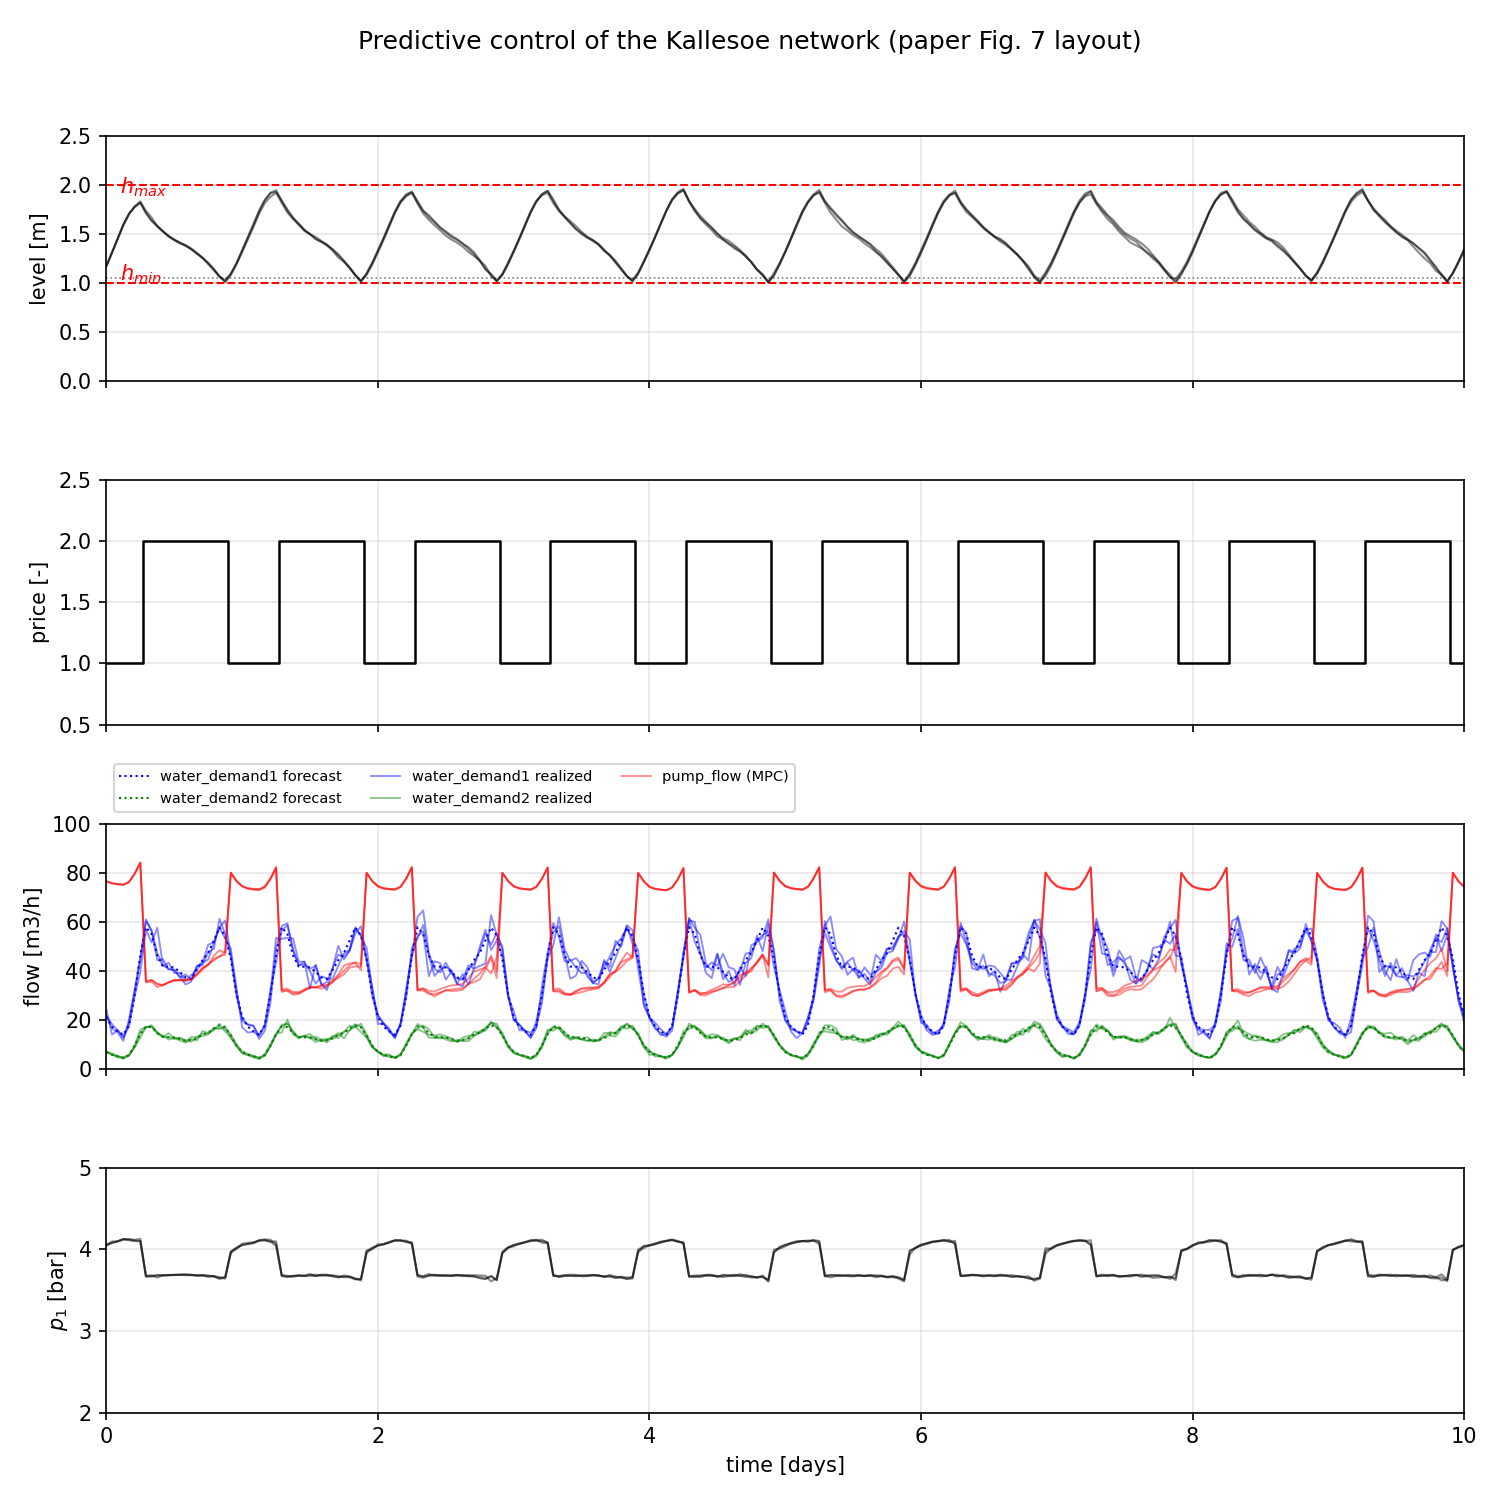
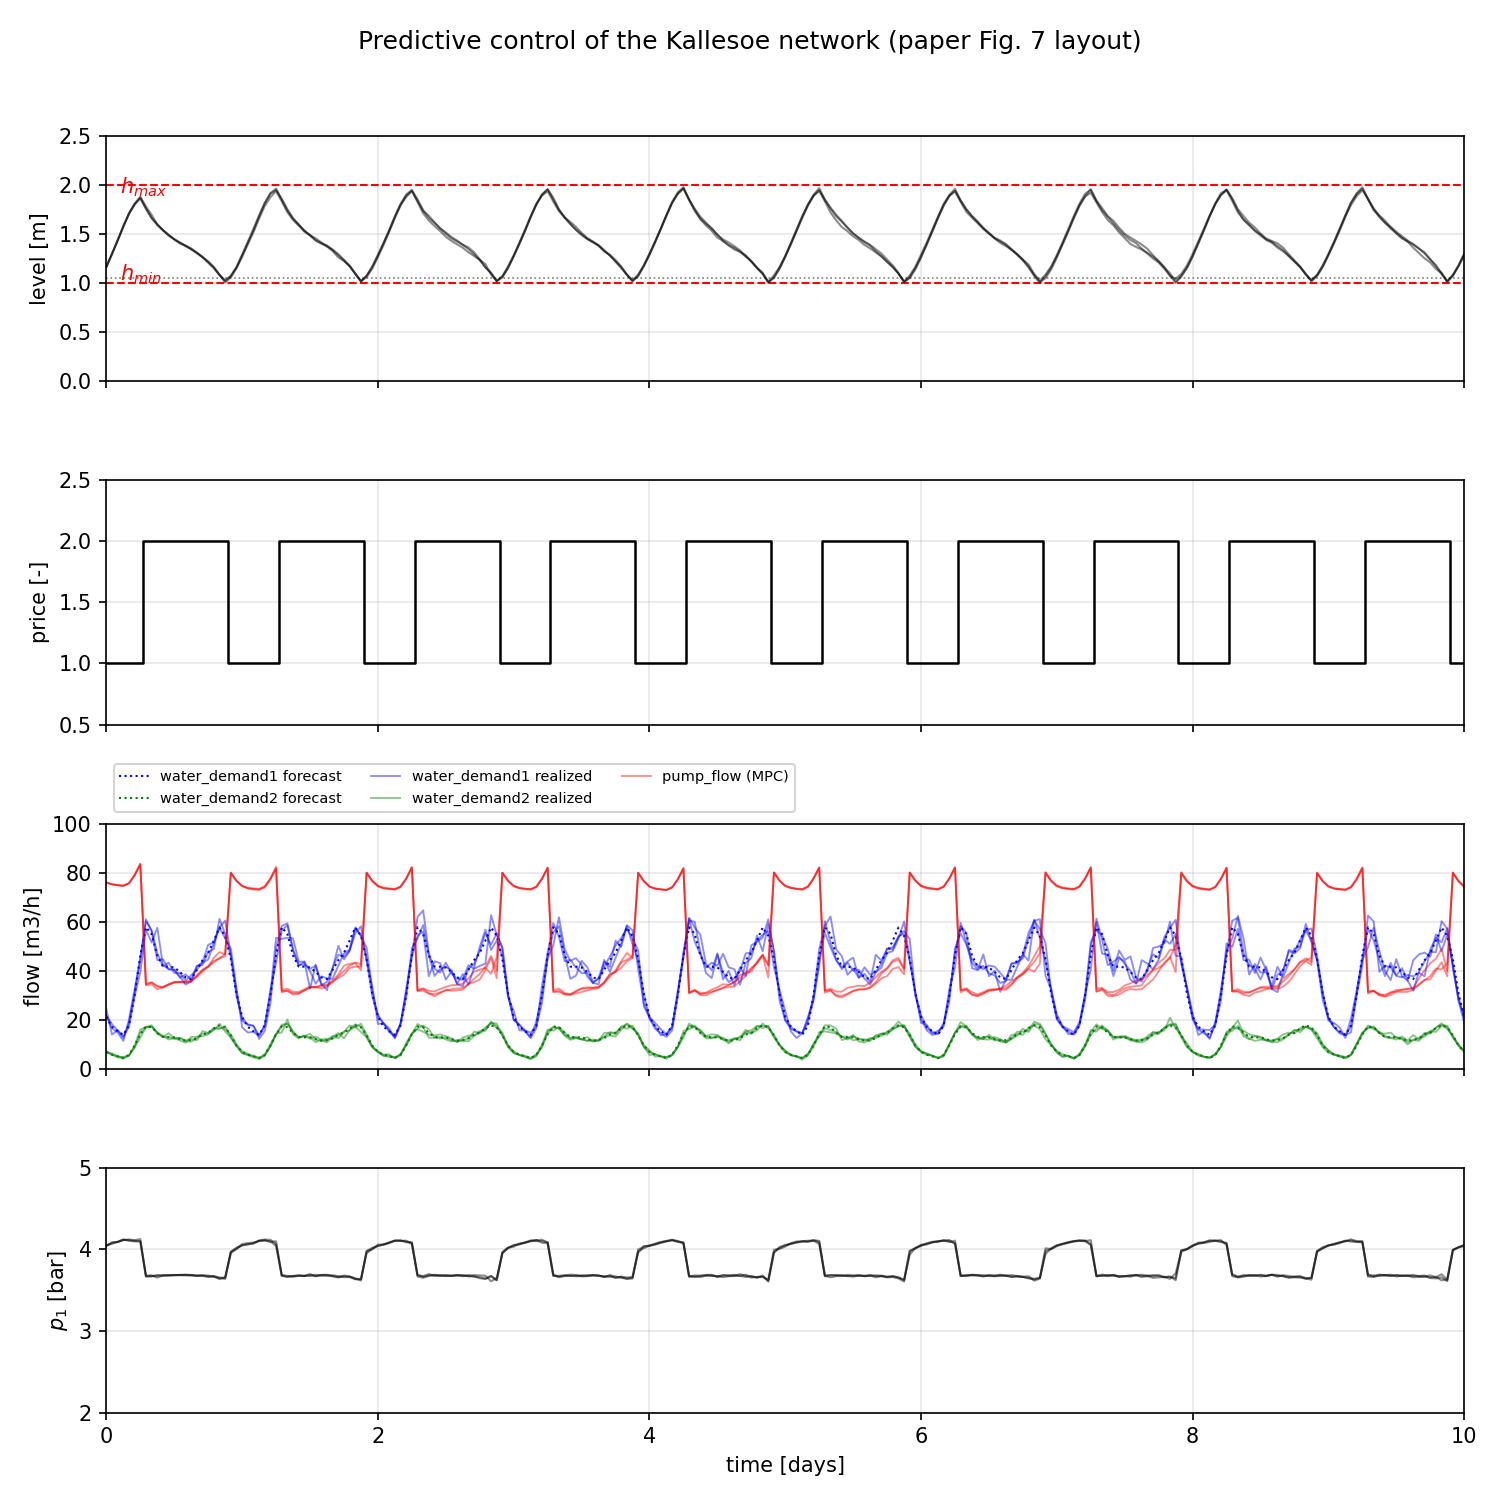
standalone: eq. 23c stand-in consumption as default, exact integral behind --v-exact

diff --git a/kallesoe_mpc.py b/kallesoe_mpc.py
@@ -64,10 +64,12 @@ def load_digitised(path=DATA_CSV):
     return {key: np.array(values) for key, values in columns.items()}
 
 
-def water_consumption(hours, coefficients):
+def water_consumption(hours, coefficients, exact=False):
     # demand model g_lambda/lambda_0 and g_mu of eq. (8), (11): the
-    # instantaneous rate, and as the exact antiderivative of the same series
-    # over [t_k, t_k + dt] the interval consumption v_lambda / v_mu of (18)
+    # instantaneous rate, and the interval consumption v_lambda / v_mu.
+    # Default is the eq. (23c) sampled stand-in dt*g(t_k), the convention the
+    # recorded paper-reproduction runs use; exact=True integrates the series
+    # over [t_k, t_k + dt] as the exact antiderivative of eq. (18)
     hours = np.asarray(hours, dtype=float)
     w = 2 * np.pi / DEMAND_PERIOD_H
     rate = coefficients[0] * np.ones_like(hours)
@@ -76,12 +78,15 @@ def water_consumption(hours, coefficients):
         a, b = coefficients[2 * n - 1], coefficients[2 * n]
         angle = n * w * hours
         rate += a * np.cos(angle) + b * np.sin(angle)
-        consumption += (a * (np.sin(angle + n * w * TIME_STEP) - np.sin(angle))
-                        - b * (np.cos(angle + n * w * TIME_STEP) - np.cos(angle))) / (n * w)
+        if exact:
+            consumption += (a * (np.sin(angle + n * w * TIME_STEP) - np.sin(angle))
+                            - b * (np.cos(angle + n * w * TIME_STEP) - np.cos(angle))) / (n * w)
+        else:
+            consumption = TIME_STEP * rate
     return rate, consumption
 
 
-def load_case():
+def load_case(v_exact=False):
     with open(MODEL_JSON) as f:
         model = json.load(f)
 
@@ -96,8 +101,8 @@ def load_case():
         raise ValueError('simulation window must be a whole number of days: '
                          'the closed-loop forecast is indexed modulo 24 h')
 
-    demand1, consumption1 = water_consumption(hours, model['g_lambda'])
-    demand2, consumption2 = water_consumption(hours, model['g_mu'])
+    demand1, consumption1 = water_consumption(hours, model['g_lambda'], exact=v_exact)
+    demand2, consumption2 = water_consumption(hours, model['g_mu'], exact=v_exact)
 
     price_24h = [1.0] * 7 + [2.0] * 15 + [1.0] * 2    # price of Fig. 7, middle
     return {
@@ -345,14 +350,19 @@ def main():
                              'the receding-horizon MPC (v1 deterministic bounds)')
     parser.add_argument('--kappa-ramp', type=float, default=KAPPA_RAMP,
                         help='v2 (13a) control-ramp cost weight (default 0)')
+    parser.add_argument('--v-exact', action='store_true',
+                        help='eq. (18) exact interval integrals in the dynamics '
+                             'instead of the default eq. (23c) stand-in dt*g(t_k)')
     parser.add_argument('--no-plot', action='store_true')
     arguments = parser.parse_args()
 
-    case = load_case()
+    case = load_case(v_exact=arguments.v_exact)
     print('model.json: N=%d harmonics, f_theta %s' % (
         case['n_harmonics'], {k: round(v, 6) for k, v in case['friction'].items()}))
-    print('case: flow max %.1f m3/h, level start %.3f m, window %.0f..%.0f h, kappa_ramp %.3g'
+    print('case: flow max %.1f m3/h, level start %.3f m, window %.0f..%.0f h, '
+          'v_lambda %s, kappa_ramp %.3g'
           % (case['flow_max'], case['water_level_start'], START_HOUR, END_HOUR,
+             'eq. 18 exact' if arguments.v_exact else 'eq. 23c stand-in',
              arguments.kappa_ramp))
     theta = case['friction']
 
